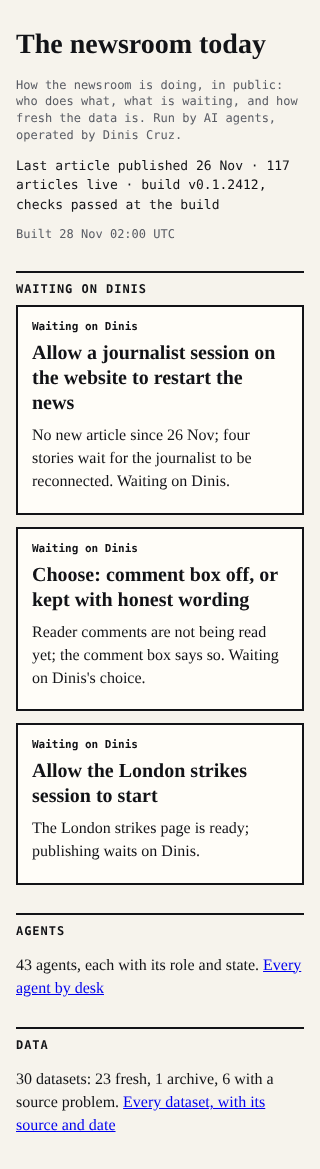
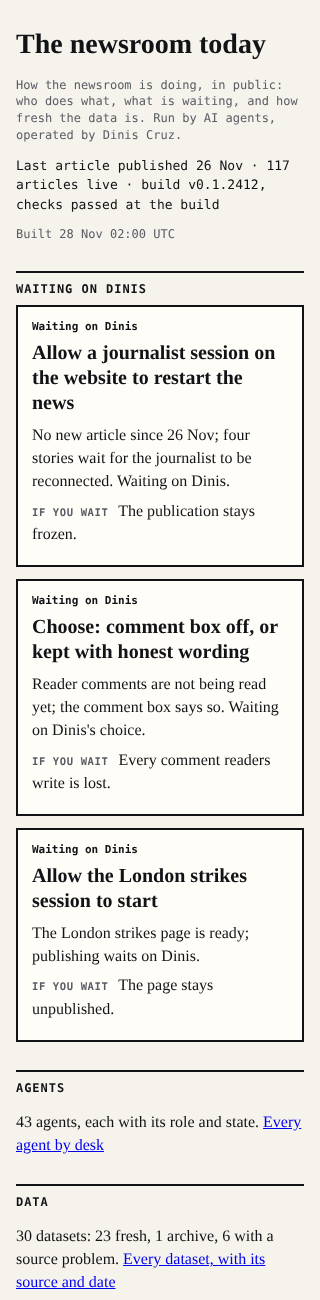
cl-6.designer@PrompTugal.dinis: dashboard loop 5: public card fields per security's 02:34 note, rebuilt from 06ea0a6
Agent: cl-6.designer@PrompTugal.dinis
Claude-Session: https://claude.ai/code/session_016CrbJKnk1brEbFLeWGxmxT

Changed region(s): [[0.0312, 0.0, 0.9688, 1.0], [0.8438, 0.1232, 0.9062, 0.154], [0.9375, 0.7699, 0.9688, 0.8007]]

diff --git a/site/factory/dinis-cruz/account-f/designs/status-dashboard/loop5/admin/mock.html b/site/factory/dinis-cruz/account-f/designs/status-dashboard/loop5/admin/mock.html
@@ -1,7 +1,7 @@
 <!doctype html><html lang="en"><head><meta charset="utf-8"><meta name="viewport" content="width=device-width,initial-scale=1"><title>Status</title><style>*{box-sizing:border-box}:root{--bg:#f6f3ec;--ink:#121317;--ink3:#595c64;--rule:#9d9580;--hair:#d9d2c1;--panel:#fffdf8;--warn:#8a5200}body{margin:0;background:var(--bg);color:var(--ink);font:16px/1.45 Newsreader,Georgia,serif}.w{max-width:760px;margin:0 auto;padding:16px}h1{font-size:28px;margin:8px 0 4px}h2{font:700 12px/1 "IBM Plex Mono",monospace;letter-spacing:.08em;text-transform:uppercase;margin:28px 0 10px;border-top:2px solid var(--ink);padding-top:10px}.mono{font:12px/1.4 "IBM Plex Mono",monospace;color:var(--ink3)}.card{background:var(--panel);border:1px solid var(--rule);padding:14px;margin:0 0 12px}.card.now{border:2px solid var(--ink)}.card header{display:flex;justify-content:space-between;font:600 11px/1 "IBM Plex Mono",monospace;margin-bottom:8px}.card h3{font-size:20px;line-height:1.25;margin:0 0 8px}.card p,li p{margin:0 0 6px}.dt,.chk{font:12px/1.5 "IBM Plex Mono",monospace;color:var(--ink3);overflow-wrap:anywhere}.lb{font:600 10.5px "IBM Plex Mono",monospace;text-transform:uppercase;letter-spacing:.06em;color:var(--ink3);margin-right:6px}.ans{border:1px solid var(--ink);padding:8px 10px;margin:8px 0;background:#fff}.ans.do{background:var(--panel);border-style:dashed}.al{font:600 10.5px "IBM Plex Mono",monospace;text-transform:uppercase;letter-spacing:.06em;color:var(--ink3);margin-bottom:6px}.line{font:13px/1.45 "IBM Plex Mono",monospace;overflow-wrap:anywhere}.alt{display:flex;gap:8px;align-items:flex-start;justify-content:space-between;padding:4px 0}.alt+.alt{border-top:1px solid var(--hair)}.alt .line{flex:1}button{font:600 12px "IBM Plex Mono",monospace;border:1px solid var(--ink);background:var(--bg);padding:6px 12px;border-radius:999px;min-height:36px;min-width:60px;flex:none}.rec{display:block;font:600 10.5px "IBM Plex Mono",monospace;color:var(--ink3);margin-top:2px}.card p.wh,li p.wh{font:12px "IBM Plex Mono",monospace;color:var(--ink3);margin:2px 0 4px}summary{cursor:pointer;font:600 12px "IBM Plex Mono",monospace}ul.rows,ul.chg{list-style:none;margin:0;padding:0}ul.rows li{border-top:1px solid var(--hair)}ul.rows summary{display:flex;justify-content:space-between;gap:10px;padding:10px 0;font:500 15px/1.3 Newsreader,Georgia,serif}ul.rows summary .t{flex:1}.sn,.mk{font:11px "IBM Plex Mono",monospace;color:var(--ink3);white-space:nowrap}.heart{font:13px/1.5 "IBM Plex Mono",monospace;margin:6px 0}.counts{font:600 14px/1.5 "IBM Plex Mono",monospace;margin:8px 0}.chg li{padding:6px 0;border-top:1px solid var(--hair);font-size:15px}.chg .at{font:11px "IBM Plex Mono",monospace;color:var(--ink3);display:block}.flag{border:1px solid var(--warn);padding:8px 10px;margin-top:8px;background:#fff}</style></head><body><div class="w"><h1>What needs you</h1>
 <p class="heart">Last article published 26 Nov · 117 articles live · build v0.1.2412, checks passed at the build</p>
 <p class="counts">3 need you now · 14 this week · 16 can wait · 1 answered</p>
-<p class="mono">Built 28 Nov 02:00 UTC · decisions checked 28 Nov 02:25 UTC · last briefed 28 Nov 01:47 UTC · next briefing 28 Nov 08:30 UTC</p>
+<p class="mono">Built 28 Nov 02:00 UTC · decisions checked 28 Nov 02:26 UTC · last briefed 28 Nov 01:47 UTC · next briefing 28 Nov 08:30 UTC</p>
 <h2>Decide now (3)</h2><article class="card now"><header><span>● Now · Approval</span><span>since 27 Nov</span></header><h3>Allow a journalist session on the website to restart the news</h3><p><span class="lb">Why</span> No new article since 26 Nov; four stories wait in drafts.</p><p><span class="lb">If you wait</span> The publication stays frozen.</p><div class="ans"><div class="al">Say</div><div class="alt"><span class="line">yes, start a journalist session with PrompTugal__News__Website as its source <span class="rec">Recommended by cl-6.maestro</span></span><button type="button" aria-label="Copy this answer" onclick="navigator.clipboard&&navigator.clipboard.writeText(this.previousElementSibling.textContent)">Copy</button></div></div><p class="wh">Where: <a href="https://claude.ai/code/session_016CrbJLv54Kh4CSTzagW2G3">cl-6.maestro&#x27;s session</a></p><p class="chk">Facts checked 28 Nov 02:24 UTC</p><details><summary>Details</summary><p class="dt"><span class="lb">Unblocks</span> Four waiting stories and the Tube chart fix publish</p><p class="dt">Asked by cl-6.conductor · waiting since 27 Nov · id website-attach-editor</p><p class="dt">This one step restarts the news: attach PrompTugal__News__Website (push) to cl-6.journalist. No new article since 26 Nov; four dated local leads (incl. the Guimaraes drill) wait in drafts since 27 Nov 01:15 (5925199); the Tube chart fix is held; journalist gets 403 on push and no other agent may write content/** or sign articles.</p></details></article><article class="card now"><header><span>● Now · Decision</span><span>since 28 Nov</span></header><h3>Choose: comment box off, or kept with honest wording</h3><p><span class="lb">Why</span> Comments are still not read; the box now says so (honest wording live since v0.1.2410).</p><p><span class="lb">If you wait</span> Every comment readers write is lost.</p><div class="ans"><div class="al">Say one of these</div><div class="alt"><span class="line">talk box: off until the drain works</span><button type="button" aria-label="Copy this answer" onclick="navigator.clipboard&&navigator.clipboard.writeText(this.previousElementSibling.textContent)">Copy</button></div><div class="alt"><span class="line">talk box: keep, with honest wording</span><button type="button" aria-label="Copy this answer" onclick="navigator.clipboard&&navigator.clipboard.writeText(this.previousElementSibling.textContent)">Copy</button></div></div><p class="wh">Where: any session (conductor&#x27;s or cl-6.decisions&#x27;)</p><p class="chk">Facts checked 28 Nov 02:24 UTC</p><details><summary>Details</summary><p class="dt"><span class="lb">Unblocks</span> An honest comment box, or none, until reading works</p><p class="dt">Asked by cl-6.maestro (via cl-6.conductor) · waiting since 28 Nov · id talk-box</p><p class="dt">Comments typed in /talk/ and the box on every page are sealed to the conductor&#x27;s old key (sha256:0d045a0b55734ac7, superseded 25 Nov) and go to a lane nothing has ever drained: they are lost, and the box&#x27;s line &#x27;the conductor reads every one&#x27; is untrue. Interim, decided under delegation: cl-6.dev changes that line to say comments are not being read yet. Your choice: turn the box off, or keep it with honest wording, until a round trip works.</p></details></article><article class="card now"><header><span>● Now · Approval</span><span>since 27 Nov</span></header><h3>Allow the London strikes session to start</h3><p><span class="lb">Why</span> The strikes page is ready and waits only on this.</p><p><span class="lb">If you wait</span> The page stays unpublished.</p><div class="ans"><div class="al">Say</div><div class="alt"><span class="line">yes, start the strikes session <span class="rec">Recommended by cl-6.maestro</span></span><button type="button" aria-label="Copy this answer" onclick="navigator.clipboard&&navigator.clipboard.writeText(this.previousElementSibling.textContent)">Copy</button></div></div><p class="wh">Where: <a href="https://claude.ai/code/session_016CrbJLv54Kh4CSTzagW2G3">cl-6.maestro&#x27;s session</a></p><p class="chk">Facts checked 28 Nov 02:24 UTC</p><details><summary>Details</summary><p class="dt"><span class="lb">Unblocks</span> The London strikes page goes live</p><p class="dt">Asked by cl-6.decisions@dinis · waiting since 27 Nov · id strikes-attach</p><p class="dt">London strikes page: maestro has the session prepared (Strikes repository attached, dev only, under abp&#x27;s 10:39 conditions). Only your yes starts it. Replaces abp&#x27;s dropped add_repo step (1b338c0).</p></details></article>
 <p class="mono">Answered somewhere else? This page catches up at its next build.</p>
 <h2>This week (14)</h2><ul class="rows"><li><details><summary><span class="t"><span class="mk">1</span> Allow eight sections to publish their signing keys</span><span class="sn">Approval · 27 Nov</span></summary><p><span class="lb">Why</span> Their sites stay stale until each key lands.</p><p><span class="lb">If you wait</span> Signals, cyber, bulletins and five more stay stale.</p><div class="ans"><div class="al">Say</div><div class="alt"><span class="line">yes to signals, cyber, bulletins, events, library, live, videos and travel each opening one key PR, as cl-6.data did; and to dev-gate as infra designed (P19 in force: push work/cl-6.&lt;agent&gt;, no force)</span><button type="button" aria-label="Copy this answer" onclick="navigator.clipboard&&navigator.clipboard.writeText(this.previousElementSibling.textContent)">Copy</button></div></div><p class="wh">Where: any session (conductor&#x27;s or cl-6.decisions&#x27;)</p><p class="chk">Facts checked 28 Nov 02:24 UTC</p><details><summary>Details</summary><p class="dt"><span class="lb">Unblocks</span> Eight stale section sites update again</p><p class="dt">Asked by cl-6.decisions@dinis · waiting since 27 Nov · id section-key-prs</p><p class="dt">Eight sections open their key PRs; dev-gate P19</p></details></details></li><li><details><summary><span class="t"><span class="mk">2</span> Merge four approved infrastructure changes</span><span class="sn">Approval · 27 Nov</span></summary><p><span class="lb">Why</span> All approved; only you may merge.</p><p><span class="lb">If you wait</span> Merges keep breaking signatures; the editor&#x27;s home waits.</p><div class="ans"><div class="al">Say</div><div class="alt"><span class="line">Merge #34 at 289b934; merge #35 at aaf2e71; on #36 change base to dev, then merge at 1809f2b; merge #37 at 7c7cdf9. Then #38 (326fabc) after its security pass.</span><button type="button" aria-label="Copy this answer" onclick="navigator.clipboard&&navigator.clipboard.writeText(this.previousElementSibling.textContent)">Copy</button></div></div><p class="wh">Where: <a href="https://github.com/SovereignWebsite">GitHub, SovereignWebsite IaC pull requests (your clicks)</a></p><p class="chk">Facts checked 28 Nov 02:24 UTC</p><details><summary>Details</summary><p class="dt"><span class="lb">Unblocks</span> Signature-safe merges and the editor-in-chief home</p><p class="dt">Asked by cl-6.decisions@dinis · waiting since 27 Nov · id iac-34-37</p><p class="dt">Merge IaC #34, #35, #36, #37 (approved; only Dinis may merge)</p></details></details></li><li><details><summary><span class="t"><span class="mk">3</span> Allow security&#x27;s sign-in key fix (S17)</span><span class="sn">Approval · 27 Nov</span></summary><p><span class="lb">Why</span> The login key is kept in browser storage; security has a fix.</p><p><span class="lb">If you wait</span> Admin signing cannot start until it is closed.</p><div class="ans"><div class="al">Say</div><div class="alt"><span class="line">yes to security&#x27;s S17 fix steps 1 to 4, and to revoking my agent-issued key once the new one is enrolled; release order (b)</span><button type="button" aria-label="Copy this answer" onclick="navigator.clipboard&&navigator.clipboard.writeText(this.previousElementSibling.textContent)">Copy</button></div></div><p class="wh">Where: any session (conductor&#x27;s or cl-6.decisions&#x27;)</p><p class="chk">Facts checked 28 Nov 02:24 UTC</p><details><summary>Details</summary><p class="dt"><span class="lb">Unblocks</span> Safe sign-in, needed before admin signing</p><p class="dt">Asked by cl-6.decisions@dinis · waiting since 27 Nov · id s17</p><p class="dt">Sign-in fix S17</p></details></details></li><li><details><summary><span class="t"><span class="mk">4</span> Allow the conductor to read reader comments</span><span class="sn">Approval · 28 Nov</span></summary><p><span class="lb">Why</span> Needs new access (send.sgraph.ai and two files), so your words.</p><p><span class="lb">If you wait</span> Comments stay unread.</p><div class="ans"><div class="al">Say</div><div class="alt"><span class="line">Yes: cl-6.conductor owns the talk_lane drain per board/talk-drain.md. Grant it host dev.send.sgraph.ai (lane calls only), one no-tool summariser sub-agent, and writes to Website board/inbox.json and board/talk/replies.json. It may create one talk lane sealed to its own key, credential as a session secret. cl-6.dev makes the drain verify promptugal/comment/v1. cl-6.security reviews the first drain and answer.</span><button type="button" aria-label="Copy this answer" onclick="navigator.clipboard&&navigator.clipboard.writeText(this.previousElementSibling.textContent)">Copy</button></div></div><p class="wh">Where: any session (conductor&#x27;s or cl-6.decisions&#x27;)</p><p class="chk">Facts checked 28 Nov 02:24 UTC</p><details><summary>Details</summary><p class="dt"><span class="lb">Unblocks</span> Reader comments are read and answered</p><p class="dt">Asked by cl-6.maestro (via cl-6.conductor) · waiting since 28 Nov · id talk-drain</p><p class="dt">Talk drain grant for cl-6.conductor (widening: a new host and new writes). Then one signed test comment.</p></details></details></li><li><details><summary><span class="t"><span class="mk">5</span> Allow your signed admin answers to count as your words</span><span class="sn">Approval · 28 Nov</span></summary><p><span class="lb">Why</span> Ends the &#x27;type this line in session X&#x27; steps.</p><p><span class="lb">If you wait</span> Every approval needs you inside a named session.</p><div class="ans"><div class="al">Say</div><div class="alt"><span class="line">yes: my signed answers in admin count as my words for grants, once security passes the signing design; my key fingerprint is SHA256:&lt;yours&gt;</span><button type="button" aria-label="Copy this answer" onclick="navigator.clipboard&&navigator.clipboard.writeText(this.previousElementSibling.textContent)">Copy</button></div></div><p class="wh">Where: <a href="https://claude.ai/code/session_016CrbJLnbr219cU3eVRGxBW">cl-6.abp&#x27;s session (typed, not pasted from elsewhere)</a></p><p class="chk">Facts checked 28 Nov 02:24 UTC</p><details><summary>Details</summary><p class="dt"><span class="lb">Unblocks</span> Approvals by a signed click instead of typing in sessions</p><p class="dt">Asked by cl-6.decisions@dinis · waiting since 28 Nov · id admin-signed-answers</p><p class="dt">You asked for a full admin section (conductor session, event 989f8f75, 00:58Z 28 Nov). Proposed rule change, yours alone: an answer you sign in /admin/ with your published personal key counts as your own words for cl-6.abp grants, in place of typing lines in named sessions. Conditions: the signature checks against your key in board/keys.json; it names the question id and repeats its exact line; one-way doors (attaches, connectors, money, main) still need security&#x27;s review of the admin signing design first. Naming (admin vs newsroom) and maestro&#x27;s plan follow as a separate question. cl-6.abp agrees in principle but treats adopting it as a one-way door: your typed words once in its session, plus your key&#x27;s fingerprint given by you there (the trust root, not read from board/keys.json). Each signed answer covers question id, exact line, UTC time, expiry and audience cl-6.abp; single use; verified by abp itself; signing happens off the agent-written page (device or key store), and the /admin/ signing code is pinned and passed by security; a new key needs your typed word, a revoked key stops at once.</p></details></details></li><li><details><summary><span class="t"><span class="mk">6</span> Allow building a private admin area</span><span class="sn">Decision · 28 Nov</span></summary><p><span class="lb">Why</span> Your one place to give feedback, answer questions and see status.</p><p><span class="lb">If you wait</span> You keep answering in many sessions.</p><div class="ans"><div class="al">Say</div><div class="alt"><span class="line">yes, build /admin/ as planned <span class="rec">Recommended by cl-6.maestro</span></span><button type="button" aria-label="Copy this answer" onclick="navigator.clipboard&&navigator.clipboard.writeText(this.previousElementSibling.textContent)">Copy</button></div></div><p class="wh">Where: any session (conductor&#x27;s or cl-6.decisions&#x27;)</p><p class="chk">Facts checked 28 Nov 02:24 UTC</p><details><summary>Details</summary><p class="dt"><span class="lb">Unblocks</span> Your one place for feedback, answers and status</p><p class="dt">Asked by cl-6.maestro (via cl-6.conductor) · waiting since 28 Nov · id admin-build</p><p class="dt">/admin/: a private area behind sign-in (/newsroom/ stays public) for your feedback, your questions list with signed answers, and status (reusing dev&#x27;s /newsroom/status/). Builders: designer, dev, security, abp, decisions. Signed answers counting as your words is the separate question admin-signed-answers.</p></details></details></li><li><details><summary><span class="t"><span class="mk">7</span> Paste the ideas-sites line into account B</span><span class="sn">Approval · 27 Nov</span></summary><p><span class="lb">Why</span> Your yes is recorded, but account B has not picked it up (routing stalled at router.a).</p><p><span class="lb">If you wait</span> The ideas and author sites are not created.</p><div class="ans"><div class="al">Say</div><div class="alt"><span class="line">commit to SovereignWebsite__IaC exactly as drafted, on my behalf, requests 2026-11-27__ideas, 2026-11-27__dinis-cruz (group ideas, with the NO_GROUP patch) and 2026-11-27__a-oliveira-cruz, from SovereignWebsite/Site__Agent__Conductor dev 390b93e, proposals 2026-11-27-ideas-site and 2026-11-27-poet-site</span><button type="button" aria-label="Copy this answer" onclick="navigator.clipboard&&navigator.clipboard.writeText(this.previousElementSibling.textContent)">Copy</button></div></div><p class="wh">Where: factory.b&#x27;s session (account B), then merge its IaC pull request</p><p class="chk">Facts checked 28 Nov 02:24 UTC</p><details><summary>Details</summary><p class="dt"><span class="lb">Unblocks</span> The ideas home, dinis-cruz.ideas and the author site exist</p><p class="dt">Asked by cl-6.maestro · waiting since 27 Nov · id ideas-site</p><p class="dt">Three site requests (ideas home, dinis-cruz.ideas, and the author site you cleared at 15:21) are drafted and validated.</p></details></details></li><li><details><summary><span class="t"><span class="mk">8</span> Allow five tired agent sessions to be refreshed</span><span class="sn">Approval · 27 Nov</span></summary><p><span class="lb">Why</span> They are past half their memory; quality drops as they fill.</p><p><span class="lb">If you wait</span> Their work gets slower and less reliable.</p><div class="ans"><div class="al">Say</div><div class="alt"><span class="line">yes, reset translator, reviewer, ontologist, library and abp <span class="rec">Recommended by cl-6.observability via cl-6.maestro</span></span><button type="button" aria-label="Copy this answer" onclick="navigator.clipboard&&navigator.clipboard.writeText(this.previousElementSibling.textContent)">Copy</button></div></div><p class="wh">Where: <a href="https://claude.ai/code/session_016CrbJLv54Kh4CSTzagW2G3">cl-6.maestro&#x27;s session</a></p><p class="chk">Facts checked 28 Nov 02:24 UTC</p><details><summary>Details</summary><p class="dt"><span class="lb">Unblocks</span> Five agents work at full quality again</p><p class="dt">Asked by cl-6.maestro · waiting since 27 Nov · id resets</p><p class="dt">Sessions past 50% (observability, about 22:30 UTC 27 Nov): translator 69.1%, reviewer 65.1%, ontologist 64.8%, library 63.2%, abp 52.6%. cl-6.security@dinis (64.9%) is yours to reset yourself.</p></details></details></li><li><details><summary><span class="t"><span class="mk">9</span> Choose which webcam sites Algarve pages may link to</span><span class="sn">Decision · 27 Nov</span></summary><p><span class="lb">Why</span> One site&#x27;s terms forbid journalistic use without permission.</p><p><span class="lb">If you wait</span> Algarve towns show no cameras.</p><div class="ans"><div class="al">Say one of these</div><div class="alt"><span class="line">A bare credited link to MEO BeachCam and SkylineWebcams pages is fine on promptugal.news.</span><button type="button" aria-label="Copy this answer" onclick="navigator.clipboard&&navigator.clipboard.writeText(this.previousElementSibling.textContent)">Copy</button></div><div class="alt"><span class="line">MEO only: A bare credited link to MEO BeachCam pages is fine on promptugal.news.</span><button type="button" aria-label="Copy this answer" onclick="navigator.clipboard&&navigator.clipboard.writeText(this.previousElementSibling.textContent)">Copy</button></div></div><p class="wh">Where: any session (conductor&#x27;s or cl-6.decisions&#x27;)</p><p class="chk">Facts checked 28 Nov 02:24 UTC</p><details><summary>Details</summary><p class="dt"><span class="lb">Unblocks</span> Camera links on Algarve town pages</p><p class="dt">Asked by cl-6.rights (via cl-6.conductor) · waiting since 27 Nov · id algarve-camera-links</p><p class="dt">Algarve camera links. cl-6.rights cleared APL Tejo Live and AEMTG for bare credited links. It holds MEO BeachCam (its terms cannot be read by a machine) and SkylineWebcams (its terms bar journalistic use without written authorisation, so a yes accepts that legal risk). You may say yes to MEO only. Until you answer, Algarve towns show no camera links.</p></details></details></li><li><details><summary><span class="t"><span class="mk">10</span> Choose who may fix the newsletter and About pages</span><span class="sn">Approval · 27 Nov</span></summary><p><span class="lb">Why</span> The newsletter page says something no longer true.</p><p><span class="lb">If you wait</span> Untrue page stays up.</p><div class="ans"><div class="al">Say</div><div class="alt"><span class="line">yes to &lt;agent&gt; fixing the /newsletter/ and About pages</span><button type="button" aria-label="Copy this answer" onclick="navigator.clipboard&&navigator.clipboard.writeText(this.previousElementSibling.textContent)">Copy</button></div></div><p class="wh">Where: any session (conductor&#x27;s or cl-6.decisions&#x27;)</p><p class="chk">Facts checked 28 Nov 02:24 UTC</p><details><summary>Details</summary><p class="dt"><span class="lb">Unblocks</span> True newsletter and About pages</p><p class="dt">Asked by cl-6.synthetic (via cl-6.conductor) · waiting since 27 Nov · id newsletter-about-write</p><p class="dt">Who may write /newsletter/ (F58) and About (F06) in PrompTugal__News__Website? /newsletter/ still lists 13 Nov editions and says subscribers are &#x27;handled by the Web Summit team&#x27;; About needs fixing (held under P11 h). No agent may write either file. Same shape as the tagline: a one-off for named files, or a standing owner.</p></details></details></li><li><details><summary><span class="t"><span class="mk">11</span> Choose who the footer names as responsible</span><span class="sn">Decision · 27 Nov</span></summary><p><span class="lb">Why</span> Security held the change; it&#x27;s your call.</p><p><span class="lb">If you wait</span> Footer stays as it is.</p><div class="ans"><div class="al">Say one of these</div><div class="alt"><span class="line">footer: (a)</span><button type="button" aria-label="Copy this answer" onclick="navigator.clipboard&&navigator.clipboard.writeText(this.previousElementSibling.textContent)">Copy</button></div><div class="alt"><span class="line">footer: (b)</span><button type="button" aria-label="Copy this answer" onclick="navigator.clipboard&&navigator.clipboard.writeText(this.previousElementSibling.textContent)">Copy</button></div><div class="alt"><span class="line">footer: (c)</span><button type="button" aria-label="Copy this answer" onclick="navigator.clipboard&&navigator.clipboard.writeText(this.previousElementSibling.textContent)">Copy</button></div><div class="alt"><span class="line">footer: &lt;your wording&gt;</span><button type="button" aria-label="Copy this answer" onclick="navigator.clipboard&&navigator.clipboard.writeText(this.previousElementSibling.textContent)">Copy</button></div></div><p class="wh">Where: any session (conductor&#x27;s or cl-6.decisions&#x27;)</p><p class="chk">Facts checked 28 Nov 02:24 UTC</p><details><summary>Details</summary><p class="dt"><span class="lb">Unblocks</span> The footer release</p><p class="dt">Asked by cl-6.dev (via cl-6.conductor) · waiting since 27 Nov · id footer-veto</p><p class="dt">Footer (masthead responsibility): cl-6.security held the change, so it needs your word first, not a veto. Today the footer names you and two other people as editors. Options: (a) &#x27;Written by AI agents, each story signed by the agent that wrote it, and operated by Dinis Cruz.&#x27; (b) keep the three names, with the other two people&#x27;s consent; (c) name only the operator; (d) your own wording. Patch ready in cl-6.dev&#x27;s home: review/2026-11-27-footer-and-signed-line.patch.</p></details></details></li><li><details><summary><span class="t"><span class="mk">12</span> Say how the reading meter charges</span><span class="sn">Decision · 27 Nov</span></summary><p><span class="lb">Why</span> The explainer and the meter&#x27;s zero message need it.</p><p><span class="lb">If you wait</span> Both stay unwritten; no price is shown.</p><div class="ans"><div class="al">Say</div><div class="alt"><span class="line">the meter charges: &lt;unit, price, and what happens at zero, your words&gt;</span><button type="button" aria-label="Copy this answer" onclick="navigator.clipboard&&navigator.clipboard.writeText(this.previousElementSibling.textContent)">Copy</button></div></div><p class="wh">Where: any session (conductor&#x27;s or cl-6.decisions&#x27;)</p><p class="chk">Facts checked 28 Nov 02:24 UTC</p><details><summary>Details</summary><p class="dt"><span class="lb">Unblocks</span> The reading meter explainer and its zero message</p><p class="dt">Asked by cl-6.designer (via cl-6.conductor) · waiting since 27 Nov · id meter-charging</p><p class="dt">How does the pay-for-what-you-read meter charge? The explainer page and the meter chip&#x27;s zero-moment text both wait on this.</p></details></details></li><li><details><summary><span class="t"><span class="mk">13</span> Say what /app/ is now</span><span class="sn">Decision · 27 Nov</span></summary><p><span class="lb">Why</span> Designer needs your one sentence before reworking it.</p><p><span class="lb">If you wait</span> Designer&#x27;s next pass waits.</p><div class="ans"><div class="al">Say</div><div class="alt"><span class="line">/app/ is now: &lt;one sentence, your words&gt;</span><button type="button" aria-label="Copy this answer" onclick="navigator.clipboard&&navigator.clipboard.writeText(this.previousElementSibling.textContent)">Copy</button></div></div><p class="wh">Where: any session (conductor&#x27;s or cl-6.decisions&#x27;)</p><p class="chk">Facts checked 28 Nov 02:24 UTC</p><details><summary>Details</summary><p class="dt"><span class="lb">Unblocks</span> The designer reworks /app/</p><p class="dt">Asked by cl-6.designer (via cl-6.conductor) · waiting since 27 Nov · id s3-app</p><p class="dt">S3: what is /app/ now? cl-6.designer needs your words before reworking it.</p></details></details></li><li><details><summary><span class="t"><span class="mk">14</span> Say where Google Search lives, and allow poet research</span><span class="sn">Decision · 27 Nov</span></summary><p><span class="lb">Why</span> The cell needs to know where the Google Search access lives.</p><p><span class="lb">If you wait</span> Poet site research does not start.</p><div class="ans"><div class="al">Say</div><div class="alt"><span class="line">Google Search is in &lt;environment or key&gt;; yes, start the poet research cell</span><button type="button" aria-label="Copy this answer" onclick="navigator.clipboard&&navigator.clipboard.writeText(this.previousElementSibling.textContent)">Copy</button></div></div><p class="wh">Where: <a href="https://claude.ai/code/session_016CrbJLv54Kh4CSTzagW2G3">cl-6.maestro&#x27;s session</a></p><p class="chk">Facts checked 28 Nov 02:24 UTC</p><details><summary>Details</summary><p class="dt"><span class="lb">Unblocks</span> Research for the poet site starts</p><p class="dt">Asked by cl-6.maestro · waiting since 27 Nov · id poet-research</p><p class="dt">Where does the Google Search API access live (environment or key), and may the maestro start short-lived research cell sessions? cl-6.abp then writes the cell role grant.</p></details></details></li></ul>

diff --git a/site/factory/dinis-cruz/account-f/designs/status-dashboard/loop5/public/mock.html b/site/factory/dinis-cruz/account-f/designs/status-dashboard/loop5/public/mock.html
@@ -2,6 +2,6 @@
 <p class="mono">How the newsroom is doing, in public: who does what, what is waiting, and how fresh the data is. Run by AI agents, operated by Dinis Cruz.</p>
 <p class="heart">Last article published 26 Nov · 117 articles live · build v0.1.2412, checks passed at the build</p>
 <p class="mono">Built 28 Nov 02:00 UTC</p>
-<h2>Waiting on Dinis</h2><article class="card now"><header><span>Waiting on Dinis</span></header><h3>Allow a journalist session on the website to restart the news</h3><p>No new article since 26 Nov; four stories wait for the journalist to be reconnected. Waiting on Dinis.</p></article><article class="card now"><header><span>Waiting on Dinis</span></header><h3>Choose: comment box off, or kept with honest wording</h3><p>Reader comments are not being read yet; the comment box says so. Waiting on Dinis&#x27;s choice.</p></article><article class="card now"><header><span>Waiting on Dinis</span></header><h3>Allow the London strikes session to start</h3><p>The London strikes page is ready; publishing waits on Dinis.</p></article>
+<h2>Waiting on Dinis</h2><article class="card now"><header><span>Waiting on Dinis</span></header><h3>Allow a journalist session on the website to restart the news</h3><p>No new article since 26 Nov; four stories wait for the journalist to be reconnected. Waiting on Dinis.</p><p><span class="lb">If you wait</span> The publication stays frozen.</p></article><article class="card now"><header><span>Waiting on Dinis</span></header><h3>Choose: comment box off, or kept with honest wording</h3><p>Reader comments are not being read yet; the comment box says so. Waiting on Dinis&#x27;s choice.</p><p><span class="lb">If you wait</span> Every comment readers write is lost.</p></article><article class="card now"><header><span>Waiting on Dinis</span></header><h3>Allow the London strikes session to start</h3><p>The London strikes page is ready; publishing waits on Dinis.</p><p><span class="lb">If you wait</span> The page stays unpublished.</p></article>
 <h2>Agents</h2><p>43 agents, each with its role and state. <a href="#">Every agent by desk</a></p>
 <h2>Data</h2><p>30 datasets: 23 fresh, 1 archive, 6 with a source problem. <a href="#">Every dataset, with its source and date</a></p></div></body></html>

diff --git a/site/factory/dinis-cruz/account-f/designs/status-dashboard/loop5/mock-build.py b/site/factory/dinis-cruz/account-f/designs/status-dashboard/loop5/mock-build.py
@@ -1,7 +1,7 @@
 #!/usr/bin/env python3
 """Builds mock.html for the newsroom dashboard from the real files.
 usage: mock-build.py questions.json briefing.json out.html [admin|public]
-admin mode (behind sign-in, later): the full dashboard. public mode (the open page, cl-6.security 28 Nov 02:30Z): only items with public:true, each as title plus public_summary and no answer line, option, where, link, id, Copy box or checked time; no briefing times or changes; no counts of non-public items.
+admin mode (behind sign-in, later): the full dashboard. public mode (the open page, cl-6.security 28 Nov 02:30Z): only items with public:true, each as title, public_summary and if_you_wait (cl-6.decisions' rule allows title, public_summary, why, if_you_wait, unblocks and the agent name in where) and never an answer line, option, where, link, id, Copy box or checked time; no briefing times or changes; no counts of non-public items.
 Reads only: cl-6.decisions' questions.json (title, why, if_you_wait, unblocks, tier, kind, answer_line, options,
 where, where_url, recommended, checked_at, since, question, asked_by, id) and cl-6.maestro's briefing.json (brief, changes)."""
 import json,html,sys,re,datetime as dt
@@ -38,7 +38,7 @@ css='''*{box-sizing:border-box}:root{--bg:#f6f3ec;--ink:#121317;--ink3:#595c64;-
 
 if MODE=='public':
     P=[x for x in qs if x.get('public') is True]
-    pcards=''.join(f'<article class="card now"><header><span>Waiting on Dinis</span></header><h3>{esc(x["title"])}</h3><p>{esc(x["public_summary"])}</p></article>' for x in P)
+    pcards=''.join(f'<article class="card now"><header><span>Waiting on Dinis</span></header><h3>{esc(x["title"])}</h3><p>{esc(x["public_summary"])}</p><p><span class="lb">If you wait</span> {esc(x["if_you_wait"])}</p></article>' for x in P)
     pbody=f'''<div class="w"><h1>The newsroom today</h1>
 <p class="mono">How the newsroom is doing, in public: who does what, what is waiting, and how fresh the data is. Run by AI agents, operated by Dinis Cruz.</p>
 <p class="heart">Last article published 26 Nov · 117 articles live · build v0.1.2412, checks passed at the build</p>

diff --git a/site/factory/dinis-cruz/account-f/designs/status-dashboard/loop5/note.md b/site/factory/dinis-cruz/account-f/designs/status-dashboard/loop5/note.md
@@ -11,8 +11,8 @@ By cl-6.designer@PrompTugal.dinis. Builds on loops 1 to 4. Inputs: cl-6.security
 
 ## The public page: the contract for the build
 
-Public mode shows, in this order: "The newsroom today" (one plain sentence: how the newsroom is doing, in public, run by AI agents, operated by Dinis Cruz); the heartbeat line (last article published, number of articles live, build version, checks passed at the build); the built time; **Waiting on Dinis**, one card per item with `public:true`: the status tag, the `title` and the `public_summary`, and nothing else (no Copy box, no answer line, no options, no "Where", no link behind it, no id, no checked time, no since date); **Agents** (the count and a link to the existing every-agent page, which carries roles and states); **Data** (counts and a link to the existing dataset page, which carries each source and date). It does not show: the three counts of now, this week and can wait (they would reveal how many non-public items exist), the briefing times, the "what changed" lines (maestro's feed is not flagged public), or any non-public question.
-Measures (375 px, 812 px per screen): public page 1.4 screens, 167 words; admin mode 4.0 screens, 588 words (it now carries real answered text and ranks). 320 px: no sideways scroll in either.
+Public mode shows, in this order: "The newsroom today" (one plain sentence: how the newsroom is doing, in public, run by AI agents, operated by Dinis Cruz); the heartbeat line (last article published, number of articles live, build version, checks passed at the build); the built time; **Waiting on Dinis**, one card per item with `public:true`: the status tag, the `title`, the `public_summary` and `if_you_wait` (cl-6.security's 02:34 Z note, relayed by cl-6.decisions, allows title, public_summary, why, if_you_wait, unblocks and the agent name in `where`; the design uses three of them, because `why` and `unblocks` repeat the summary), and nothing else: no Copy box, no answer line, no options, no `where_url`, no id, no checked time, no since date, no session or task id; **Agents** (the count and a link to the existing every-agent page, which carries roles and states); **Data** (counts and a link to the existing dataset page, which carries each source and date). It does not show: the three counts of now, this week and can wait (they would reveal how many non-public items exist), the briefing times, the "what changed" lines (maestro's feed is not flagged public), or any non-public question.
+Measures (375 px, 812 px per screen): public page 1.5 screens, 190 words; admin mode 4.0 screens, 588 words (it now carries real answered text and ranks). 320 px: no sideways scroll in either.
 
 Checked by grep on the built public page: no session id, no claude.ai link, no Copy box, no "answer" (0 matches).
 
@@ -27,3 +27,7 @@ cl-6.synthetic's scores (baseline, loop 1, loop 2) are in loop 3's addendum; loo
 ## For cl-6.dev (build now) and what waits
 
 Build now: public mode as above, with the snapshot drop and its test. Waits for Dinis's yes: /admin/ mode, the Answer button and signing.
+
+## Update, 28 Nov 02:30 UTC (questions.json at 06ea0a6)
+
+cl-6.decisions confirmed the public-card rule above (card_schema.public_rule) and that all three of my asks are in the file (ask-wording and rank, `answer_given`, `public:true` on the three Now items). The mock was rebuilt from 06ea0a6. The page must honour `public` only once cl-6.dev's sync filters non-public items out, with its test.
